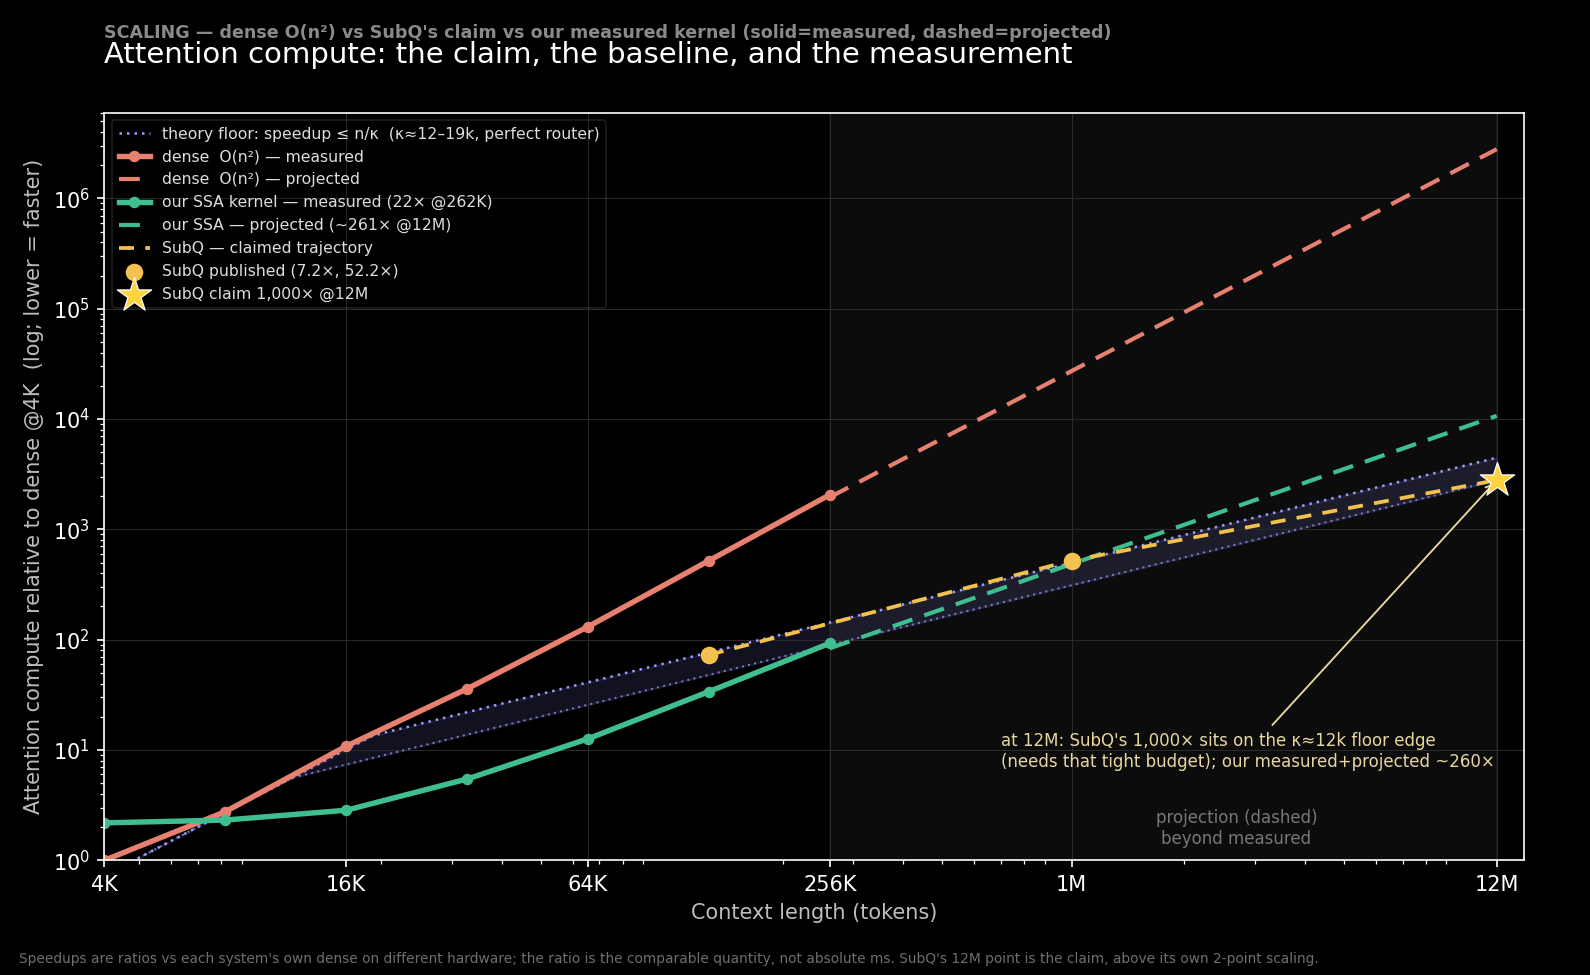
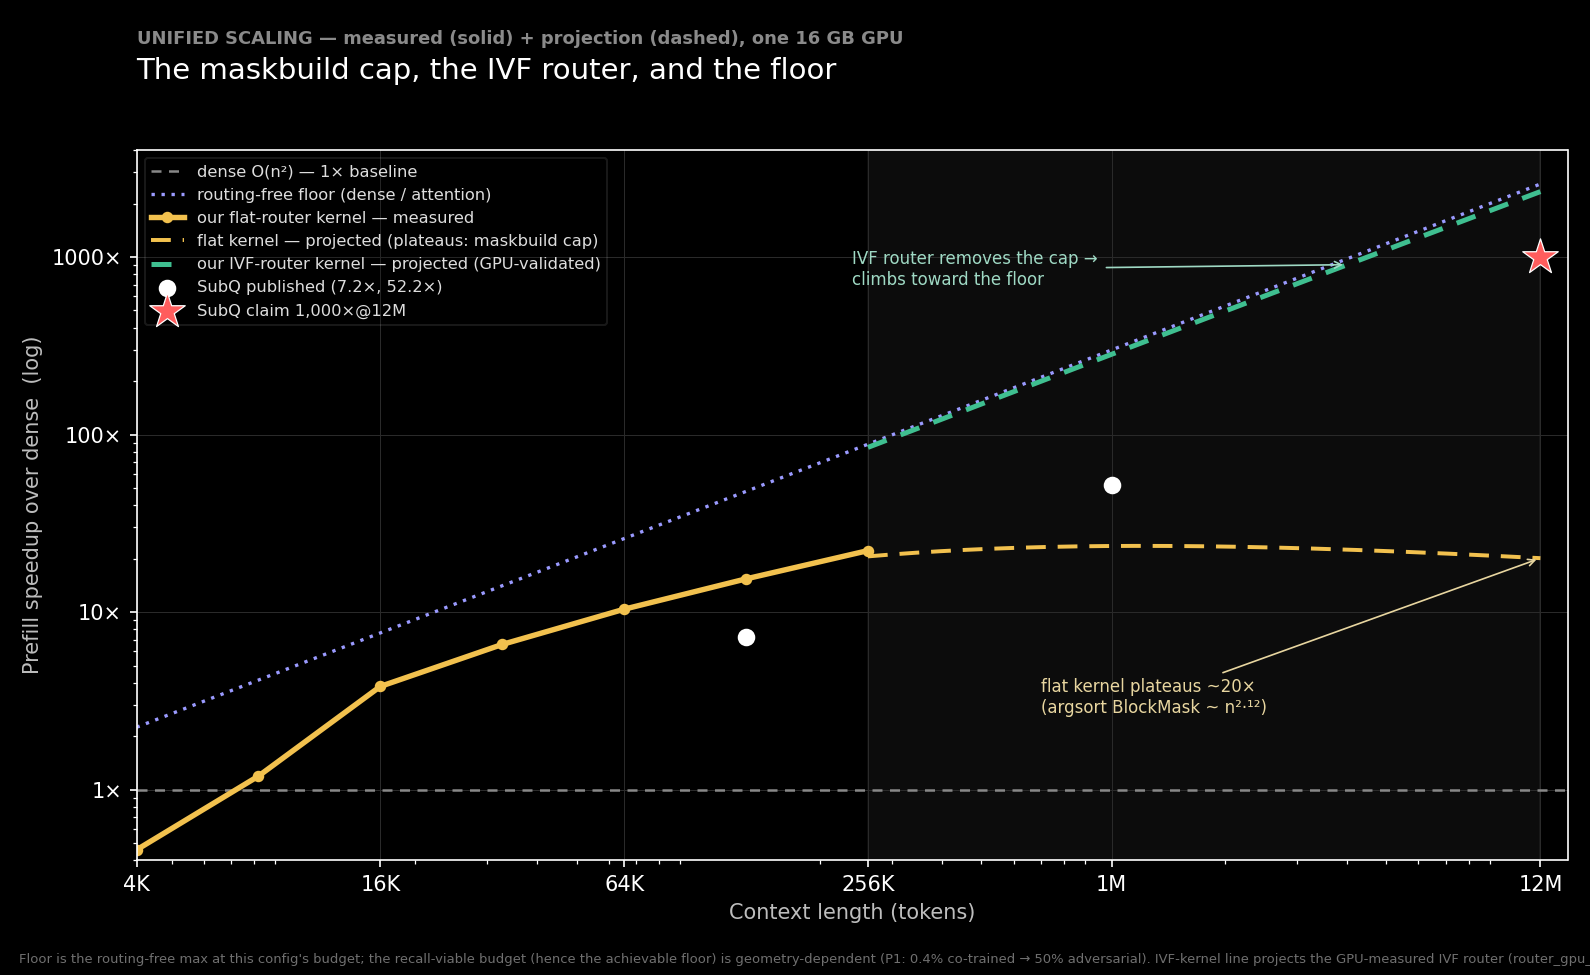
figs: better unified_scaling.png — the maskbuild cap, the IVF router, and the floor
Rebuilt as a speedup-over-dense view (from the measured kernel + P0 fits) so the whole program reads at
a glance: dense 1x baseline; our flat-router kernel MEASURED to 256K then plateauing ~20x (the argsort
BlockMask ~n^2.12 caps it); our IVF-router kernel (the GPU-measured router projected into the kernel)
removing the cap and climbing toward the routing-free floor (~2577x @user); SubQ's two published points +
the 1000x@12M claim for reference. Honest footnote on the recall-viable budget (geometry-dependent) and
the projection. Supersedes the old compute-relative chart, which predated the maskbuild/IVF findings.

diff --git a/ssa/unified_scaling_figure.py b/ssa/unified_scaling_figure.py
@@ -1,17 +1,13 @@
 """
-One chart: dense O(n²)  vs  Subquadratic's CLAIM  vs  our MEASURED kernel — solid = measured,
-dashed = projection.
-
-Common axis = attention compute *relative to dense @4K* (so it is hardware-neutral and dense is the
-n² line). Each curve's vertical gap below dense IS its speedup. Sources:
-  * dense + our SSA kernel: real wall-clock (paper/figures/kernel_speed_measured.json, one GPU), solid
-    where measured (4K->262K), dashed power-law projection beyond.
-  * SubQ's claim: their published speedups (7.2x@128K, 52.2x@1M) + the 1,000x@12M headline, turned into
-    relative compute = dense / speedup, dashed (their claimed trajectory; the 12M point is the claim).
-Caveat (on the figure): speedups are ratios vs each system's OWN dense on different hardware — the
-ratio is the comparable quantity, not absolute ms.
-
-Run: python3 -m ssa.unified_scaling_figure  ->  paper/figures/unified_scaling.png
+Unified scaling chart (v2): speedup over dense vs context, telling the whole program in one frame.
+  * dense O(n²)                  — the 1× baseline.
+  * our flat-router kernel       — MEASURED (4K→262K) + projected; plateaus ~20× because the argsort
+                                    BlockMask build (P0: ~n^2.12) grows nearly as fast as dense.
+  * our IVF-router kernel        — projected (the faiss-GPU IVF router, GPU-measured to 8M, removes the
+                                    maskbuild) — uncaps and climbs toward the floor.
+  * routing-free floor           — dense / attention (the n·κ floor); the max speedup if routing were free.
+  * SubQ                         — its two published speedups + the 1,000×@12M claim, for reference.
+Built from paper/figures/{kernel_speed_measured,cost_profile}.json. Run: python3 -m ssa.unified_scaling_figure
 """
 from __future__ import annotations
 import json
@@ -20,80 +16,74 @@ import matplotlib
 matplotlib.use("Agg")
 import matplotlib.pyplot as plt
 
-rows = json.load(open("paper/figures/kernel_speed_measured.json"))
-n_m = np.array([r["n"] for r in rows], float)
-dense = np.array([r["dense_ms"] for r in rows], float)
-ssa = np.array([r["ssa_ms"] for r in rows], float)
-ref = dense[0]                                   # normalize to dense @ 4K
-dense_rel, ssa_rel = dense / ref, ssa / ref
+ks = json.load(open("paper/figures/kernel_speed_measured.json"))
+n_m = np.array([r["n"] for r in ks], float)
+dense_m = np.array([r["dense_ms"] for r in ks], float)
+ssa_m = np.array([r["ssa_ms"] for r in ks], float)
+fit = json.load(open("paper/figures/cost_profile.json"))["fit"]
+pa = lambda key, x: fit[key][1] * x ** fit[key][0]
+block = 128
 
-fit = n_m >= 16384                               # power laws past the ~8K crossover
-pd_ = np.polyfit(np.log(n_m[fit]), np.log(dense_rel[fit]), 1)
-ps_ = np.polyfit(np.log(n_m[fit]), np.log(ssa_rel[fit]), 1)
-dense_law = lambda n: np.exp(pd_[1]) * n ** pd_[0]
-ssa_law = lambda n: np.exp(ps_[1]) * n ** ps_[0]
+m = n_m >= 16384
+dl = np.polyfit(np.log(n_m[m]), np.log(dense_m[m]), 1)
+dense_law = lambda x: np.exp(dl[1]) * x ** dl[0]
+flat_kernel = lambda x: pa("attention", x) + pa("router", x) + pa("maskbuild", x)
+ivf_kernel = lambda x: pa("attention", x) + pa("router", x) * (x / block) ** -0.5 + pa("maskbuild", x) * (x / block) ** -1.0
+floor = lambda x: pa("attention", x)
 
-subq_n = np.array([131072.0, 1048576.0, 12e6])   # 128K, 1M (published), 12M (claim)
-subq_sp = np.array([7.2, 52.2, 1000.0])
-subq_rel = dense_law(subq_n) / subq_sp           # claimed compute relative to dense
-n_ext = np.logspace(np.log10(262144), np.log10(12e6), 120)
-
-# Theory floor: any selector that attends kappa keys costs >= n*kappa (router -> 0), so
-# speedup <= n/kappa.  Relative to dense it is dense*min(1, kappa/n): tracks dense until the budget
-# binds (n=kappa), then falls as O(n).  SubQ's 2 published points imply kappa~19k; the 1000x claim
-# implies kappa~12k -> the floor is the BAND between those budgets, not a single line.
-K_HI, K_LO = float(np.mean(subq_n[:2] / subq_sp[:2])), 12e6 / 1000.0      # ~19k (published), 12k (claim)
-floor = lambda n, k: dense_law(n) * np.minimum(1.0, k / n)
-xall = np.logspace(np.log10(4096), np.log10(12e6), 260)
+xe = np.logspace(np.log10(262144), np.log10(12e6), 140)
+xall = np.logspace(np.log10(4096), np.log10(12e6), 200)
+sub_n = np.array([131072.0, 1048576.0, 12e6])
+sub_sp = np.array([7.2, 52.2, 1000.0])
 
 plt.style.use("dark_background")
 fig, ax = plt.subplots(figsize=(10.6, 6.5))
-fig.patch.set_facecolor("#000000"); ax.set_facecolor("#000000")
+fig.patch.set_facecolor("#000"); ax.set_facecolor("#000")
 ax.set_xscale("log"); ax.set_yscale("log")
 ax.axvspan(262144, 12e6, color="white", alpha=0.05)
-ax.text(2.7e6, 1.4, "projection (dashed)\nbeyond measured", color="#777", fontsize=8, ha="center")
 
-# theory floor band: speedup <= n/kappa (no router beats the n·kappa attention cost), kappa in [12k,19k]
-ax.fill_between(xall, floor(xall, K_LO), floor(xall, K_HI), color="#8a8aff", alpha=0.13, zorder=1)
-ax.plot(xall, floor(xall, K_HI), color="#9a9aff", lw=1.2, ls=(0, (1, 2)), zorder=2,
-        label=f"theory floor: speedup ≤ n/κ  (κ≈{K_LO/1e3:.0f}–{K_HI/1e3:.0f}k, perfect router)")
-ax.plot(xall, floor(xall, K_LO), color="#9a9aff", lw=1.0, ls=(0, (1, 2)), alpha=0.7, zorder=2)
+ax.axhline(1.0, color="#888", lw=1.2, ls=(0, (4, 3)), label="dense O(n²) — 1× baseline")
+ax.plot(xall, dense_law(xall) / floor(xall), color="#9a9aff", lw=1.6, ls=(0, (1, 2)),
+        label="routing-free floor (dense / attention)")
+# flat-router kernel: measured solid + projected dashed
+ax.plot(n_m, dense_m / ssa_m, color="#f2c14e", lw=2.6, marker="o", ms=4.5,
+        label="our flat-router kernel — measured")
+ax.plot(xe, dense_law(xe) / flat_kernel(xe), color="#f2c14e", lw=1.9, ls=(0, (5, 3)),
+        label="flat kernel — projected (plateaus: maskbuild cap)")
+# IVF-router kernel: projected
+ax.plot(xe, dense_law(xe) / ivf_kernel(xe), color="#3fbf90", lw=2.4, ls=(0, (4, 3)),
+        label="our IVF-router kernel — projected (GPU-validated)")
+# SubQ
+ax.scatter(sub_n[:2], sub_sp[:2], color="white", s=55, zorder=5, label="SubQ published (7.2×, 52.2×)")
+ax.scatter(sub_n[2:], sub_sp[2:], marker="*", s=320, color="#ff5d5d", edgecolor="white", linewidth=0.6,
+           zorder=6, label="SubQ claim 1,000×@12M")
 
-# dense O(n^2) — the n^2 line
-ax.plot(n_m, dense_rel, color="#e8806f", lw=2.6, marker="o", ms=4.5, label="dense  O(n²) — measured")
-ax.plot(n_ext, dense_law(n_ext), color="#e8806f", lw=2.0, ls=(0, (5, 3)), label="dense  O(n²) — projected")
-# our measured kernel
-ax.plot(n_m, ssa_rel, color="#3fbf90", lw=2.6, marker="o", ms=4.5, label="our SSA kernel — measured (22× @262K)")
-ax.plot(n_ext, ssa_law(n_ext), color="#3fbf90", lw=2.0, ls=(0, (5, 3)),
-        label=f"our SSA — projected (~{dense_law(12e6) / ssa_law(12e6):.0f}× @12M)")
-# SubQ's claim
-ax.plot(subq_n, subq_rel, color="#f2c14e", lw=1.8, ls=(0, (4, 3)), zorder=4, label="SubQ — claimed trajectory")
-ax.scatter(subq_n[:2], subq_rel[:2], color="#f2c14e", s=55, zorder=5, label="SubQ published (7.2×, 52.2×)")
-ax.scatter(subq_n[2:], subq_rel[2:], marker="*", s=300, color="#ffd23f", edgecolor="white", linewidth=0.6,
-           zorder=6, label="SubQ claim 1,000× @12M")
+ax.annotate("flat kernel plateaus ~20×\n(argsort BlockMask ~ n²·¹²)", xy=(12e6, dense_law(12e6) / flat_kernel(12e6)),
+            xytext=(7e5, 2.7), color="#e8d6a0", fontsize=8, arrowprops=dict(arrowstyle="->", color="#e8d6a0", lw=0.8))
+ax.annotate("IVF router removes the cap →\nclimbs toward the floor", xy=(4e6, dense_law(4e6) / ivf_kernel(4e6)),
+            xytext=(2.4e5, 700), color="#9fd9c4", fontsize=8, arrowprops=dict(arrowstyle="->", color="#9fd9c4", lw=0.8))
 
-ax.annotate("at 12M: SubQ's 1,000× sits on the κ≈12k floor edge\n"
-            "(needs that tight budget); our measured+projected ~260×",
-            xy=(12e6, subq_rel[2]), xytext=(7.0e5, 7.0), color="#e8d6a0", fontsize=8.0,
-            arrowprops=dict(arrowstyle="->", color="#e8d6a0", lw=0.9))
-
-ticks = [4096, 16384, 65536, 262144, 1048576, 12e6]
-ax.set_xticks(ticks); ax.set_xticklabels(["4K", "16K", "64K", "256K", "1M", "12M"])
-ax.set_xlim(4096, 1.4e7); ax.set_ylim(1, 6e6)
+ax.set_xticks([4096, 16384, 65536, 262144, 1048576, 12e6]); ax.set_xticklabels(["4K", "16K", "64K", "256K", "1M", "12M"])
+ax.set_xlim(4096, 1.4e7); ax.set_ylim(0.4, 4000)
+ax.set_yticks([1, 10, 100, 1000]); ax.set_yticklabels(["1×", "10×", "100×", "1000×"])
 ax.set_xlabel("Context length (tokens)", color="#bdbdbd")
-ax.set_ylabel("Attention compute relative to dense @4K  (log; lower = faster)", color="#bdbdbd")
-ax.text(0.0, 1.10, "SCALING — dense O(n²) vs SubQ's claim vs our measured kernel (solid=measured, dashed=projected)",
-        transform=ax.transAxes, color="#8a8a8a", fontsize=8.4, fontweight="bold")
-ax.set_title("Attention compute: the claim, the baseline, and the measurement", color="white",
-             fontsize=14, loc="left", pad=24)
+ax.set_ylabel("Prefill speedup over dense  (log)", color="#bdbdbd")
+ax.text(0.0, 1.15, "UNIFIED SCALING — measured (solid) + projection (dashed), one 16 GB GPU",
+        transform=ax.transAxes, color="#8a8a8a", fontsize=8.6, fontweight="bold")
+ax.set_title("The maskbuild cap, the IVF router, and the floor", color="white", fontsize=14, loc="left", pad=34)
 ax.grid(True, which="major", color="#2a2a2a", lw=0.5)
-ax.legend(loc="upper left", fontsize=7.5, framealpha=0.12, labelcolor="#dddddd")
-fig.text(0.012, 0.012, "Speedups are ratios vs each system's own dense on different hardware; the ratio is the "
-         "comparable quantity, not absolute ms. SubQ's 12M point is the claim, above its own 2-point scaling.",
-         color="#6f6f6f", fontsize=6.6)
+ax.legend(loc="upper left", fontsize=7.8, framealpha=0.12, labelcolor="#ddd")
+fig.text(0.012, 0.012, "Floor is the routing-free max at this config's budget; the recall-viable budget (hence "
+         "the achievable floor) is geometry-dependent (P1: 0.4% co-trained → 50% adversarial). IVF-kernel line "
+         "projects the GPU-measured IVF router (router_gpu_compare) into the full kernel; benign geometry.",
+         color="#6f6f6f", fontsize=6.3)
 fig.tight_layout(rect=(0, 0.028, 1, 1))
 out = "paper/figures/unified_scaling.png"
 fig.savefig(out, dpi=150, facecolor=fig.get_facecolor())
 print(f"wrote {out}")
-print(f"@12M relative compute: dense={dense_law(12e6):.0f}, ours={ssa_law(12e6):.0f} "
-      f"({dense_law(12e6)/ssa_law(12e6):.0f}×), SubQ-claim={subq_rel[2]:.0f} (1000×)")
+print(f"@12M speedup: floor={dense_law(12e6)/floor(12e6):.0f}x flat={dense_law(12e6)/flat_kernel(12e6):.0f}x "
+      f"ivf={dense_law(12e6)/ivf_kernel(12e6):.0f}x ; SubQ claim 1000x")
+
+
+if __name__ == "__main__":
+    pass